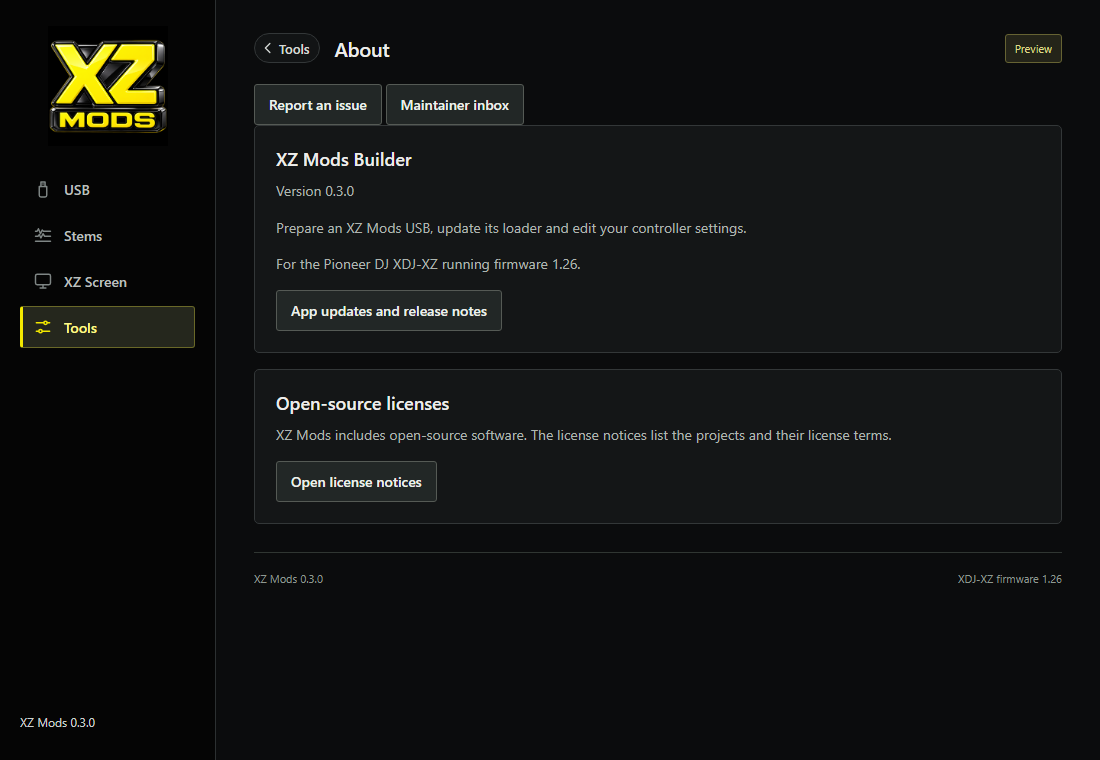
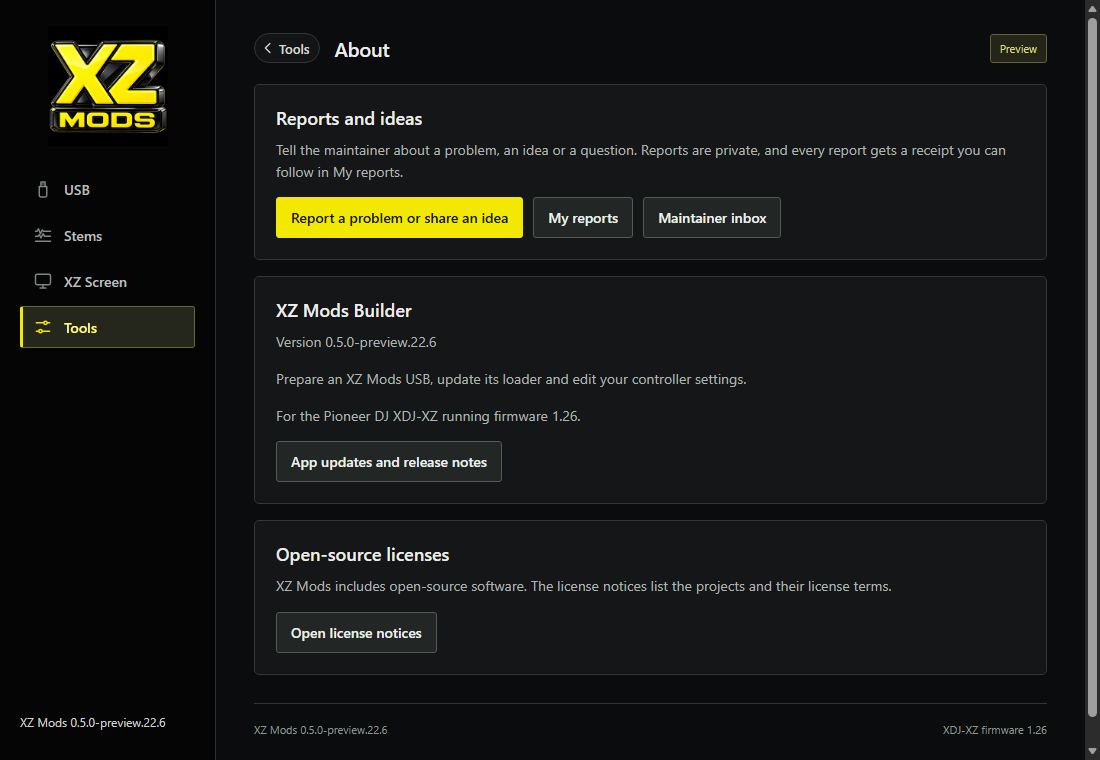
Manual: report a problem or share an idea, included details and My reports
The desktop chapter documents the one-box report window, its questions,
Is this it? answers, included details, the USB sticks step, the receipt,
the reporting connection setup, My reports and the read-only tracking
view, with app screenshots and callouts. Tools and About figures show the
new entries. Troubleshooting points to the new window and lists the two
new setup buttons. The report UI sources are watched for the chapter.

diff --git a/manual/chapters/desktop-app.md b/manual/chapters/desktop-app.md
@@ -262,11 +262,13 @@ Tools holds everything you need less often. **Tools** in the top left of each to
 ```figure app:tools XZ Mods app · Tools
 Every tool.
 1 @ 405,110 DJ Profile | Your name and logo on the XZ, and the profile track.
-2 @ 430,181 Repair library | Fixes a Rekordbox USB the XZ cannot read.
-3 @ 455,252 Network updates | Sends the newest XZ Mods to XZs on your network.
-4 @ 452,324 XZ Mods version | Picks which build goes on your USB, or imports one.
-5 @ 422,395 App updates | Checks for a newer app.
-6 @ 380,466 About | The version, open-source licenses and Report an issue.
+2 @ 431,181 Repair library | Fixes a Rekordbox USB the XZ cannot read.
+3 @ 456,252 Network updates | Sends the newest XZ Mods to XZs on your network.
+4 @ 453,324 XZ Mods version | Picks which build goes on your USB, or imports one.
+5 @ 424,395 App updates | Checks for a newer app.
+6 @ 572,466 Report a problem or share an idea | Sends a private report or an idea to the maintainer.
+7 @ 413,537 My reports | What you sent and where each report is now.
+8 @ 380,608 About | The version, open-source licenses and reports.
 ```
 
 ### DJ Profile
@@ -386,47 +388,137 @@ On Windows the app checks for updates by itself at launch and shows **Review upd
 
 ### About
 
-About shows the app version and the open-source licenses. **Report an issue** opens the report window.
+About shows the app version and the open-source licenses. **Reports and ideas** at the top opens the report window and My reports.
 
 ```figure app:about XZ Mods app · About
 About.
-1 @ 318,78 Report an issue | Sends a cleaned-up report. See below.
-2 @ 535,105 Maintainer inbox | For the maintainer only.
-3 @ 515,311 App updates and release notes | Opens App updates.
-4 @ 450,482 Open license notices | Every open-source project XZ Mods uses and its license.
+1 @ 400,250 Report a problem or share an idea | Opens the report window. Tools has the same entry.
+2 @ 583,250 My reports | What you sent and where each report is now.
+3 @ 712,250 Maintainer inbox | For the maintainer only.
+4 @ 516,462 App updates and release notes | Opens App updates.
+5 @ 451,633 Open license notices | Every open-source project XZ Mods uses and its license.
 ```
 
-### Report an issue
+### Report a problem or share an idea
 
-```figure app:report-issue XZ Mods app · Report an issue
-The report window.
-1 @ 330,113 Saved reports | Reopens a report kept on this computer. Up to 32 are kept.
-2 @ 268,264 Public title | The title of the public GitHub issue.
-3 @ 345,332 Reproduction steps | What you did and what happened. This part is public.
-4 @ 260,431 Category | Four decks / bridge, Audio, Display or Other.
-5 @ 430,503 Private diagnostics | Includes cleaned-up logs that only the maintainer sees, for 14 days.
-6 @ 555,549 USB diagnostics | Adds the logs from an XZ Mods USB.
-7 @ 360,594 Private contact | A way to reach you, sent privately.
-8 @ 310,697 Omit private items | Leaves chosen logs out.
+Report a problem or share an idea sends a private report to the maintainer: a problem, something that got worse, an idea or a question. Open it from **Tools** or **About**. The only thing you have to fill in is one box. Nothing is posted publicly.
+
+```figure app:report-topic XZ Mods app · Report a problem or share an idea
+The first question.
+1 @ 612,128 Steps | Where you are. The box with Send is always the last step.
+2 @ 415,243 Topic | Pick the closest one. The next question depends on it.
+3 @ 353,532 How do I...? | For a question. Answers from this manual appear as you type.
+4 @ 735,630 Not sure | Skips the question. Every question has it.
+5 @ 296,630 Cancel | Closes the window. What you typed comes back when you open it again.
 ```
 
-1. Describe the problem and choose a category.
-2. Choose **Prepare preview** and read every page of the exact report. **Next preview page** moves through it.
-3. Tick that you reviewed it, then choose **Send private diagnostics**, or **Export reviewed private JSON** to keep a file.
-4. **Open reviewed GitHub draft** opens the public issue for you to submit on GitHub.
+1. Pick what it is about, or **Not sure**.
+2. Answer at most two more short questions, or press **Not sure**.
+3. Write what happened in your own words. One sentence is enough.
+4. Press **Send privately**.
 
-Nothing is sent until you approve it. If sending fails, **Set up reporting connection** walks through the fix, and the export works offline. You can also report from the player. See [Report an issue](extras#report-an-issue).
+| You pick | It then asks |
+|---|---|
+| Something got worse | When it got worse, then for the USB sticks that were in the XZ |
+| Something isn't working | What kind of problem: sound, SYNC or tempo, the screen, buttons and pads, loading and USB, four decks, a crash, or something else |
+| It should work differently | Compared with what: the XZ before XZ Mods, another XZ feature, other DJ gear or software, an earlier XZ Mods version, or just your preference. For gear or another feature, which one |
+| I have a new idea | What kind of idea |
+| How do I...? | Nothing more. Go straight to your question |
 
+```figure app:report-describe XZ Mods app · Report a problem or share an idea
+The box, with an answer from this manual.
+1 @ 664,147 Your answers | What you picked. Change goes back to the first question.
+2 @ 820,190 The box | The only thing you have to fill in. Up to 4,096 bytes; a counter appears near the limit.
+3 @ 524,378 Is this it? | Up to three answers from this manual that match what you typed.
+4 @ 489,492 Answer buttons | Set up four decks opens that setup. That answers it closes without sending anything.
+5 @ 388,554 Included details | What the app collected to send with your words. Closed until you open it.
+6 @ 771,646 Send privately | Sends your words and the details shown, to the maintainer only.
+```
 
-### Private receipt status links
+As you type, **Is this it?** shows answers from this manual. The matching runs on your computer; your words are not sent anywhere for it. If an answer solves it, its button opens the right setup, such as **Set up four decks**, or **That answers it** closes the window. Nothing is sent.
 
-A receipt status link, when provided, opens a read-only page with the report's classification and progress.
-It never shows the original description, contact details, logs, or another person's report. Anonymous
-reporters can use the same tracking link. Keep your recovery receipt private.
+### Included details
 
-If the link is unavailable, **Open a saved status link** lets you choose another receipt link and check it.
-Private diagnostics expire after 14 days. Safe tracking lasts while a report is active, up to one year
-without activity, then 180 days after closure. A local test build is not a published update.
+While you answer and type, the app reads the details that help the maintainer, for at most 10 seconds: the session log and settings on your XZ Mods USB, the diary on each stick, the app's events and the build. Everything is cleaned first. No track names, file paths, serial numbers or network addresses are kept.
 
-The desktop report form above still uses its existing preview and send steps. The new one-box form and
-My reports integration require the matching desktop update. A status page does not post to GitHub.
+```figure app:report-details XZ Mods app · Included details
+Included details, opened, with one source shown and one left out.
+1 @ 388,52 Included details | How many sources are included, their size and the time around the problem they cover.
+2 @ 401,157 A source | What it is and where it comes from. Untick it to leave it out.
+3 @ 762,168 Show | The exact content that would be sent for this source.
+4 @ 434,216 Left out | An unticked source is not sent.
+5 @ 700,290 Exact content | What is sent for this source, after cleaning.
+```
+
+**Send privately** sends exactly your words and the ticked details shown at that moment. If you send before the app has finished reading, it sends what it has read and notes what is missing. **Collect again** reads everything again. Ideas include no details at all, only your words. Details are deleted after 14 days.
+
+### When something got worse
+
+For something that got worse, the app asks you to plug in every USB stick that was in the XZ when it happened. XZ Mods versions that keep a diary write it to each stick while the XZ plays. The app reads only that diary, never your music.
+
+```figure app:report-usb XZ Mods app · Report a problem or share an idea
+Two sticks plugged in: an XZ Mods USB with a diary and a music stick without one.
+1 @ 520,354 XZ Mods USB | A stick with the XZ Mods loader on it.
+2 @ 436,379 Diary | The time range the diary on this stick covers.
+3 @ 425,436 Music stick | A stick with music only.
+4 @ 443,461 No diary on this stick | This stick has no diary, for example from a version that does not keep one.
+5 @ 762,505 That's all of them | Goes on to the box.
+```
+
+Each stick appears by itself as you plug it in. Press **That's all of them** when every stick is in. A missing stick or a missing diary never stops you sending.
+
+### After you send
+
+```figure app:report-received XZ Mods app · Report received
+The receipt after sending.
+1 @ 419,289 Your receipt | Every report and idea gets one. It is kept on this computer under Windows protection.
+2 @ 509,312 Status | Where the report is now.
+3 @ 519,341 Report number | The first part of the report's number, also shown in My reports.
+4 @ 688,477 Track my report | Opens it in My reports.
+```
+
+If the app cannot confirm that a report arrived, it says **Not confirmed yet**. Nothing is lost. **Set up reporting connection** checks the internet connection and the computer's clock, then **Send again** sends the same report. If the first attempt did arrive, you get its receipt and nothing arrives twice. **Save to a file** keeps a copy without sending.
+
+```figure app:report-connection XZ Mods app · Set up reporting connection
+The setup after a send that was not confirmed.
+1 @ 574,306 Connection | Whether this computer is online.
+2 @ 452,363 Clock | Secure connections fail when the date is wrong.
+3 @ 781,551 Send again | Sends the same report again.
+```
+
+### My reports
+
+My reports lists every report and idea sent from this computer, with its kind and where it is now, in plain words. Open it from **Tools** or **About**.
+
+```figure app:my-reports XZ Mods app · My reports
+Four reports, one with news.
+1 @ 611,118 Notice | Appears at the top of the app when a report's status changes. View opens that report.
+2 @ 345,293 Kind | Such as Problem, Got worse, Works differently, Idea or Question.
+3 @ 666,280 Your words | The start of what you wrote. It stays on this computer.
+4 @ 584,537 Status | Where the report is now. New marks a change you have not opened yet.
+5 @ 900,293 Sent | The day you sent it.
+6 @ 755,226 Check now | Checks every report at once.
+7 @ 938,226 Report a problem or share an idea | Starts a new report.
+```
+
+The app checks for news when it starts, after it checks for app updates, and when you open My reports, at most every 15 minutes for each report. **Check now** checks at once. If you are offline, the last known status stays.
+
+Open a report to see where it is. The view is read-only.
+
+```figure app:report-tracking XZ Mods app · My reports
+A problem the maintainer confirmed, with a fix in progress.
+1 @ 550,186 Progress | Received, Confirmed, Fix in progress, Ready to test, In an update. Ideas and questions show Received, Looked at, Decided.
+2 @ 481,252 Report | Its kind and number.
+3 @ 501,291 Your words | The start of what you wrote.
+4 @ 417,338 Status | Where it is now, in plain words.
+5 @ 600,425 Dates | When you sent it, the last change, when its details are deleted and how long tracking lasts.
+6 @ 429,481 Status link and forgetting | The status link, and Forget this report.
+7 @ 711,512 Check now | Checks this report at once.
+```
+
+- If the maintainer needs one more detail, the question appears in the report. **Answer in a new report** starts a report that names this one.
+- **Open status page** and **Copy status link** give a read-only web page with the same status. It shows none of your words or details. Anyone with the link can read the status. **Turn off status links** stops every link for this report; the app still checks it.
+- **Forget this report** removes its receipt from this computer. The maintainer keeps the report.
+- A report saved, but not sent, by an older version of the app appears under **Saved, not sent**. **Use this text** starts a new report with its words.
+
+Details are deleted 14 days after you send them. Tracking lasts while a report is open, up to one year without news, then 180 days after it closes. A fix in a local test build is not a published update.

diff --git a/manual/chapters/troubleshooting.md b/manual/chapters/troubleshooting.md
@@ -166,7 +166,8 @@ Every "needs setup" state in the app comes with one button that starts a short g
 | Set up Live Streamer to connect to your XZ | **Set up Live Streamer** | Finds the XZ on the network and connects |
 | Older USB loaders have no screen service | **Update the USB loader** | Opens the USB page to update the loader |
 | Rekordbox is open on this computer | **Prepare for repair** | Waits for you to close rekordbox, then checks again |
-| A send failed | **Set up reporting connection** | Checks the internet connection and the date, then sends again |
+| Not confirmed yet, after sending a report | **Set up reporting connection** | Checks the internet connection and the clock, then sends the same report again. It never arrives twice |
+| Maintainer inbox, not connected (maintainer only) | **Connect and check** | Keeps the owner key under Windows protection and reads the inbox to check it |
 
 | Message | What to do |
 |---|---|
@@ -191,7 +192,7 @@ Every page of the app is in [The XZ Mods app](desktop-app).
 When something goes wrong, send a report. It helps fix the problem for everyone.
 
 - **On the player.** Open MODS › **EXTRAS** › **REPORT AN ISSUE**. The player builds a cleaned-up report, shows you what it holds, and sends it or saves it to the USB. See [Report an issue](extras#report-an-issue).
-- **On your computer.** In the XZ Mods app, open **Tools** › **About** › **Report an issue**. You can add the logs from your XZ Mods USB. See [Report an issue](desktop-app#report-an-issue).
+- **On your computer.** In the XZ Mods app, open **Tools** › **Report a problem or share an idea**. Only one box is required, and **My reports** shows where your report is afterwards. See [Report a problem or share an idea](desktop-app#report-a-problem-or-share-an-idea).
 - **On GitHub.** Open an issue at https://github.com/OpticMystic/XZ-Mods/issues.
 
-Say what you did, what you expected and what happened, and name your interface, MODERN or CLASSIC. Nothing is sent without your approval, and the public GitHub issue is always a separate step you submit yourself.
+Say what you did, what you expected and what happened. The app adds the cleaned-up details itself, and you can see and untick each one. Nothing is sent until you press **Send privately**, and the app posts nothing publicly. From the player, the public GitHub issue is a separate step you submit yourself.
